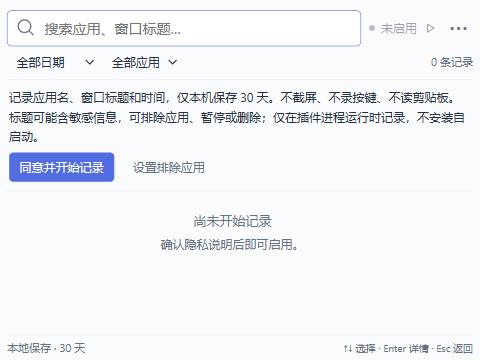
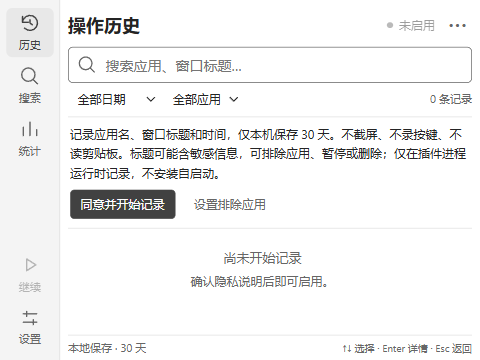
refactor: restore desktop shortcut rail and follow host theme

diff --git a/src/styles/main.css b/src/styles/main.css
@@ -10,7 +10,17 @@ input[type=date] { width: 140px; }
 :focus-visible { outline: 2px solid var(--accent); outline-offset: 1px; }
 svg { flex-shrink: 0; } h1, h2, h3, p { margin: 0; }
 small, kbd { font-size: 11px; color: var(--muted); } kbd { font-family: inherit; }
-.app-shell { display: flex; flex-direction: column; width: 100%; height: 100%; padding: 8px 10px 0; min-height: 0; overflow: hidden; }
+.app-shell { display: flex; width: 100%; height: 100%; min-height: 0; overflow: hidden; }
+.shortcut-sidebar { display: flex; flex-direction: column; flex: 0 0 60px; width: 60px; min-height: 0; padding: 8px 6px; border-right: 1px solid var(--line); background: var(--sidebar); }
+.shortcut-top, .shortcut-bottom { display: flex; flex-direction: column; gap: 4px; }
+.shortcut-bottom { margin-top: auto; padding-top: 8px; }
+.shortcut-button { display: flex; flex-direction: column; align-items: center; justify-content: center; gap: 3px; width: 100%; min-height: 46px; padding: 5px 2px; border-radius: 6px; color: var(--muted); }
+.shortcut-button span { font-size: 11px; line-height: 16px; }
+.shortcut-button:hover { color: var(--text); background: var(--hover); }
+.shortcut-button[aria-current=page] { color: var(--accent); background: var(--accent-soft); }
+.workspace { display: flex; flex-direction: column; flex: 1; min-width: 0; min-height: 0; overflow: hidden; padding: 8px 12px 0; }
+.workspace-heading { display: flex; align-items: center; gap: 5px; flex: 0 0 34px; margin-bottom: 3px; }
+.workspace-heading h1 { margin-right: auto; font-size: 18px; line-height: 27px; font-weight: 600; }
 .tool-header { display: flex; align-items: center; gap: 8px; flex: 0 0 40px; }
 .search-box { display: flex; align-items: center; gap: 9px; flex: 1; min-width: 0; height: 36px; padding: 0 9px; border: 1px solid var(--line); border-radius: 5px; background: var(--surface); }
 .search-box:focus-within { border-color: var(--accent); }.search-box > svg { color: var(--muted); }
@@ -51,5 +61,5 @@ mark { background: var(--mark); color: inherit; }.load-more { padding: 7px; text
 .modal-backdrop { position: fixed; inset: 0; z-index: 20; background: #10182b55; display: flex; align-items: center; justify-content: center; padding: 8px; }.modal-panel { width: 100%; max-width: 470px; max-height: calc(100% - 16px); padding: 12px; background: var(--surface); border: 1px solid var(--line); border-radius: 6px; outline: none; }
 .modal-heading { display: flex; align-items: center; justify-content: space-between; margin-bottom: 7px; }.modal-heading h2 { font-size: 14px; font-weight: 600; }.detail-app { display: flex; align-items: center; gap: 8px; }.detail-app h3 { font-size: 13px; font-weight: 600; }.detail-title { font-size: 13px; line-height: 1.5; margin: 8px 0; overflow-wrap: anywhere; user-select: text; }
 .detail-meta { margin: 6px 0; }.detail-meta > div { display: flex; justify-content: space-between; gap: 10px; padding: 3px 0; border-bottom: 1px solid var(--line-soft); font-size: 12px; }.detail-meta dt { color: var(--muted); }.detail-meta dd { margin: 0; }.confirm-copy { margin: 12px 0; font-size: 13px; }
-@media (max-width: 520px) { .app-shell { padding-inline: 7px; }.tool-header { gap: 4px; }.tool-toolbar { gap: 4px; }.tool-toolbar select { max-width: 125px; }.status-pill { padding-inline: 4px; }.keyboard-hint { font-size: 10px; }.event-row { gap: 7px; padding-inline: 5px; }.event-time { width: 77px; } }
+@media (max-width: 520px) { .workspace { padding-inline: 8px; }.tool-header { gap: 4px; }.tool-toolbar { gap: 4px; }.tool-toolbar select { max-width: 125px; }.status-pill { padding-inline: 4px; }.keyboard-hint { font-size: 10px; }.event-row { gap: 7px; padding-inline: 5px; }.event-time { width: 77px; } }
 @media (prefers-reduced-motion: reduce) { * { scroll-behavior: auto !important; } }

diff --git a/src/views/SettingsView.vue b/src/views/SettingsView.vue
@@ -18,7 +18,7 @@ function removeRange() {
 <template>
   <section class="settings-view" aria-label="设置">
     <nav class="secondary-tabs" aria-label="设置分组"><button v-for="item in [{ id: 'preferences', label: '记录偏好' }, { id: 'exclusions', label: '排除应用' }, { id: 'data', label: '本地数据' }]" :key="item.id" :aria-pressed="tab === item.id" @click="tab = item.id; localError = ''">{{ item.label }}</button></nav>
-    <template v-if="tab === 'preferences'"><label class="setting-line"><span>界面主题</span><select :value="settings.theme" :disabled="busy" @change="emit('save', { theme: ($event.target as HTMLSelectElement).value as Settings['theme'] })"><option value="system">跟随系统</option><option value="light">浅色</option><option value="dark">深色</option></select></label><label class="setting-line"><span>保留期限 <small>缩短后立即清理</small></span><span><input type="number" class="number-input" min="1" max="3650" v-model.number="retention" aria-label="历史保留天数" /> 天</span></label><label class="setting-line"><span>空闲阈值</span><span><input type="number" class="number-input" min="30" max="3600" v-model.number="idle" aria-label="空闲秒数" /> 秒</span></label><button class="button primary" :disabled="busy" @click="save">保存记录偏好</button></template>
+    <template v-if="tab === 'preferences'"><p class="scope-note">外观自动跟随 uTools 主题。</p><label class="setting-line"><span>保留期限 <small>缩短后立即清理</small></span><span><input type="number" class="number-input" min="1" max="3650" v-model.number="retention" aria-label="历史保留天数" /> 天</span></label><label class="setting-line"><span>空闲阈值</span><span><input type="number" class="number-input" min="30" max="3600" v-model.number="idle" aria-label="空闲秒数" /> 秒</span></label><button class="button primary" :disabled="busy" @click="save">保存记录偏好</button></template>
     <template v-else-if="tab === 'exclusions'"><label class="block-label">排除进程<input v-model="excluded" aria-label="排除进程" placeholder="KeePass.exe, 1Password.exe" /></label><p class="scope-note">用逗号分隔进程名，忽略大小写。保存后立即停止写入这些应用；已有历史需单独删除。</p><button class="button primary" :disabled="busy" @click="save">保存排除应用</button></template>
     <template v-else><label class="block-label">数据目录<input readonly :value="directory || '将在 uTools 中显示'" :title="directory" /></label><p class="scope-note">仅本地保存，退出 uTools 后停止；不安装自启动。</p><div class="button-group"><button class="button" :disabled="busy" @click="emit('export', 'json')">导出 JSON</button><button class="button" :disabled="busy" @click="emit('export', 'csv')">导出 CSV</button><button class="button danger-text" :disabled="busy" @click="emit('remove', { all: true })">清空所有历史</button></div><div class="date-range"><input type="date" v-model="from" aria-label="删除开始日期" /><span>至</span><input type="date" v-model="to" aria-label="删除结束日期" /><button class="button danger-text" :disabled="busy" @click="removeRange">删除范围</button></div></template>
     <p v-if="localError" class="error-text" role="alert">{{ localError }}</p>

diff --git a/src/stores/useHistory.ts b/src/stores/useHistory.ts
@@ -9,6 +9,7 @@ export function useHistory() {
   const records = ref<ActivityRecord[]>([]), apps = ref<AppSummary[]>([]), stats = ref<AppStats[]>([])
   const error = ref(''), loading = ref(false), busy = ref(false), ready = ref(false), nextCursor = ref<string>()
   const matchTotal = ref<number>()
+  const queryFailed = ref(false)
   const q = ref(''), preset = ref('all'), startDate = ref(''), endDate = ref(''), appId = ref('')
   const range = computed(() => dateRange(preset.value, startDate.value, endDate.value))
   let request = 0, alive = true
@@ -21,6 +22,7 @@ export function useHistory() {
   async function search(more = false) {
     const token = ++request
     loading.value = true
+    queryFailed.value = false
     try {
       const page = await unwrap(bridge?.search({ ...range.value, q: q.value.trim(), appId: appId.value || undefined, cursor: more ? nextCursor.value : undefined, limit: 80 }))
       if (token !== request || !alive) return
@@ -28,7 +30,7 @@ export function useHistory() {
       matchTotal.value = Number.isSafeInteger(page.total) && page.total! >= 0 ? page.total : undefined
       nextCursor.value = page.nextCursor
       error.value = ''
-    } catch (e) { if (token === request && alive) { error.value = (e as Error).message; if (!more) { records.value = []; nextCursor.value = undefined; matchTotal.value = undefined } } }
+    } catch (e) { if (token === request && alive) { queryFailed.value = true; error.value = (e as Error).message; if (!more) { records.value = []; nextCursor.value = undefined; matchTotal.value = undefined } } }
     finally { if (token === request && alive) loading.value = false }
   }
   async function refreshStatus() { status.value = await unwrap(bridge?.status()) }
@@ -60,7 +62,7 @@ export function useHistory() {
       const text = await unwrap(bridge?.exportRecords({ format, ...range.value }))
       const url = URL.createObjectURL(new Blob([text], { type: format === 'csv' ? 'text/csv;charset=utf-8' : 'application/json' }))
       const link = document.createElement('a'); link.href = url; link.download = `utools-history-${new Date().toISOString().slice(0, 10)}.${format}`; link.click(); setTimeout(() => URL.revokeObjectURL(url), 1000)
-    } catch (e) { error.value = (e as Error).message }
+    } catch (e) { queryFailed.value = true; error.value = (e as Error).message }
   }
-  return { settings, status, records, apps, stats, error, loading, busy, ready, nextCursor, matchTotal, q, preset, startDate, endDate, appId, range, search, refreshStatus, refreshStats, initialize, updateSettings, toggle, remove, exportData, dispose() { alive = false; request++ } }
+  return { settings, status, records, apps, stats, error, loading, busy, ready, nextCursor, matchTotal, queryFailed, q, preset, startDate, endDate, appId, range, search, refreshStatus, refreshStats, initialize, updateSettings, toggle, remove, exportData, dispose() { alive = false; request++ } }
 }

diff --git a/src/components/HistoryTimeline.vue b/src/components/HistoryTimeline.vue
@@ -3,8 +3,8 @@ import { computed, nextTick, ref, watch, onMounted, onUnmounted } from 'vue'
 import type { ActivityRecord } from '../domain/bridge'
 import { dayLabel, timeLabel } from '../domain/format'
 import HighlightedText from './HighlightedText.vue'
-const props = defineProps<{ records: ActivityRecord[]; query: string; loading: boolean; more: boolean; enabled: boolean }>()
-const emit = defineEmits<{ detail: [record: ActivityRecord]; more: [] }>()
+const props = defineProps<{ records: ActivityRecord[]; query: string; loading: boolean; more: boolean; enabled: boolean; filtered: boolean; failed: boolean }>()
+const emit = defineEmits<{ detail: [record: ActivityRecord]; more: []; clear: [] }>()
 const viewport = ref<HTMLElement>(), scrollTop = ref(0), height = ref(400), selected = ref(0)
 const rowHeight = 56
 let advanceAfterLoad = false
@@ -41,7 +41,7 @@ defineExpose({ move, openSelected, reset, selectedId })
 </script>
 <template>
   <div class="timeline-scroll" ref="viewport" tabindex="0" role="region" aria-label="历史时间线" @scroll="scrollTop = ($event.target as HTMLElement).scrollTop" @keydown.down.prevent.stop="move(1)" @keydown.up.prevent.stop="move(-1)" @keydown.enter="enterResult">
-    <div v-if="!records.length && !loading" class="empty-state"><h3>{{ enabled ? '未找到历史记录' : '尚未开始记录' }}</h3><p>{{ enabled ? '试试其他关键词或日期。' : '确认隐私说明后即可启用。' }}</p></div>
+    <div v-if="!records.length" class="empty-state"><h3>{{ failed ? '读取历史失败' : loading ? '正在检索…' : enabled ? '未找到历史记录' : '尚未开始记录' }}</h3><p v-if="!loading">{{ failed ? '请根据错误提示重试，不代表本地历史为空。' : enabled ? filtered ? '当前条件没有匹配，试试全部历史。' : '开始记录并切换应用后，历史会出现在这里。' : '确认隐私说明后即可启用。' }}</p><button v-if="filtered && !loading && !failed" class="button subtle" @click="emit('clear')">清除筛选</button></div>
     <div id="history-results" :style="{ height: `${records.length * rowHeight}px`, position: 'relative' }" role="listbox" aria-label="历史搜索结果">
       <button v-for="(item, i) in visible" :key="item.id" :id="`history-result-${item.id}`" role="option" :aria-selected="selected === start + i" :tabindex="selected === start + i ? 0 : -1" class="event-row" :class="{ selected: selected === start + i }" :style="{ top: `${(start + i) * rowHeight}px`, height: `${rowHeight}px` }" @click="selected = start + i; openSelected()" :aria-label="`${item.appName} ${item.windowTitle} 查看详情`">
         <span class="app-avatar" :title="`${item.appName}（应用字母标识）`" aria-hidden="true">{{ item.appName.slice(0, 1).toUpperCase() }}</span>

diff --git a/src/styles/themes.css b/src/styles/themes.css
@@ -1,3 +1,2 @@
-:root { color-scheme: light; --bg: #fafbfd; --surface: #ffffff; --sidebar: #f3f5f9; --text: #253044; --muted: #657085; --line: #e5e9f0; --line-soft: #eef1f6; --accent: #526de1; --accent-ink: #fff; --accent-soft: #edf0ff; --selected: #f0f3fb; --hover: #f1f4f9; --button: #ffffff; --mark: #e1e6ff; --danger: #c94f58; --error-bg: #fff0f1; }
-:root[data-theme=dark] { color-scheme: dark; --bg: #181c25; --surface: #202631; --sidebar: #141922; --text: #e5e9f3; --muted: #929fb4; --line: #323b4b; --line-soft: #29313e; --accent: #8da2ff; --accent-ink: #15203a; --accent-soft: #2b3456; --selected: #262e41; --hover: #262e3c; --button: #252e3d; --mark: #414d78; --danger: #ff949b; --error-bg: #432b35; }
-@media (prefers-color-scheme: dark) { :root:not([data-theme=light]):not([data-theme=dark]) { color-scheme: dark; --bg: #181c25; --surface: #202631; --sidebar: #141922; --text: #e5e9f3; --muted: #929fb4; --line: #323b4b; --line-soft: #29313e; --accent: #8da2ff; --accent-ink: #15203a; --accent-soft: #2b3456; --selected: #262e41; --hover: #262e3c; --button: #252e3d; --mark: #414d78; --danger: #ff949b; --error-bg: #432b35; } }
+:root { color-scheme: light; --bg:#fff; --surface:#fff; --sidebar:#f4f4f4; --text:#242424; --muted:#666; --line:#d8d8d8; --line-soft:#ececec; --accent:#414141; --accent-ink:#fff; --accent-soft:#e8e8e8; --selected:#ededed; --hover:#f2f2f2; --button:#fafafa; --mark:#e6dca5; --danger:#ae2838; --error-bg:#fff0f1; }
+@media (prefers-color-scheme: dark) { :root { color-scheme:dark; --bg:#202020; --surface:#252525; --sidebar:#191919; --text:#eee; --muted:#b3b3b3; --line:#505050; --line-soft:#353535; --accent:#dedede; --accent-ink:#202020; --accent-soft:#393939; --selected:#383838; --hover:#303030; --button:#2c2c2c; --mark:#675b26; --danger:#ff9aa4; --error-bg:#42282b; } }

diff --git a/CHANGELOG.md b/CHANGELOG.md
@@ -5,6 +5,8 @@ No official versions have been released.
 ## [Unreleased]
 
 ### Fixed
+- Restore a fixed 60px shortcut rail with history/search/statistics and bottom recording/settings controls; show query-specific counts and distinguish query failures from empty results.
+- Follow uTools' recommended prefers-color-scheme mechanism automatically with neutral light/dark surfaces; remove the independent theme selector and ignore legacy UI theme overrides.
 - Return the total matching the current search filters independently of pagination, rather than presenting the global database count as a filtered result count. Load saved history even when recording has not been enabled; this does not start capture.
 - Rework the UI as a compact desktop tool: always-visible search and recording controls, 56px result rows, one-line filters, and a secondary menu for settings/statistics/export. Replace the welcome page with inline consent and remove the sidebar and decorative headings.
 - Support keyboard-only page continuation, retain selection across live refresh, focus search on plugin re-entry, and make Esc close menus/details, return from secondary views, clear search, then hide the host window. Paginate secondary panels and long detail titles instead of adding page scrollbars.

diff --git a/docs/host-theme.md b/docs/host-theme.md
@@ -1,0 +1,7 @@
+# 宿主主题与双栏调整
+
+当前使用固定 60px 快捷栏与右侧工作区，历史入口清除筛选回到全部日期；搜索入口只返回历史并聚焦。当前结果数量取查询 total，分页不改变匹配总数；加载、失败与空结果分别显示，旧数据不因未启用采集而隐藏。
+
+主题依据当前官方文档 https://www.u-tools.cn/docs/api-reference/system.html 的 isDarkColors 节：API 可判断宿主深色，界面推荐 prefers-color-scheme，并提供 matchMedia change 示例。本项目直接使用响应式 CSS 媒体查询，主题改变即重算全局变量，无需 JS 轮询、重启或虚构主题事件。历史数据库中的 theme 设置保留以兼容旧文件，但 UI 不再读取它，不提供独立切换。
+
+所有界面共享白/灰/黑中性变量，选中、悬停、弹层和表单同源。浏览器自动化模拟主题切换及紧凑视口，不能代替真实 uTools 环境：实际宿主浅/深色切换、Windows DPI 及字体渲染仍待人工验证，不标记通过。

diff --git a/README.md b/README.md
@@ -65,3 +65,5 @@ Vue 3 UI → 类型化 preload 接口 → 独立协调服务 → 可替换采集
 - [产品规划与里程碑状态](Plan.md)
 
 保留真实 Git 历史，每个独立变更通过检查后使用 Conventional Commits 提交。未正式发布，不创建产品版本标签；未经授权不推送。项目开源许可证尚未由维护者选定，不应假定授权；打包的 sql.js MIT 许可随产物提供。
+
+当前布局与主题约定见 [宿主主题与双栏说明](docs/host-theme.md)：60px 快捷栏，主题自动跟随宿主，设置中不再提供独立主题选择。
